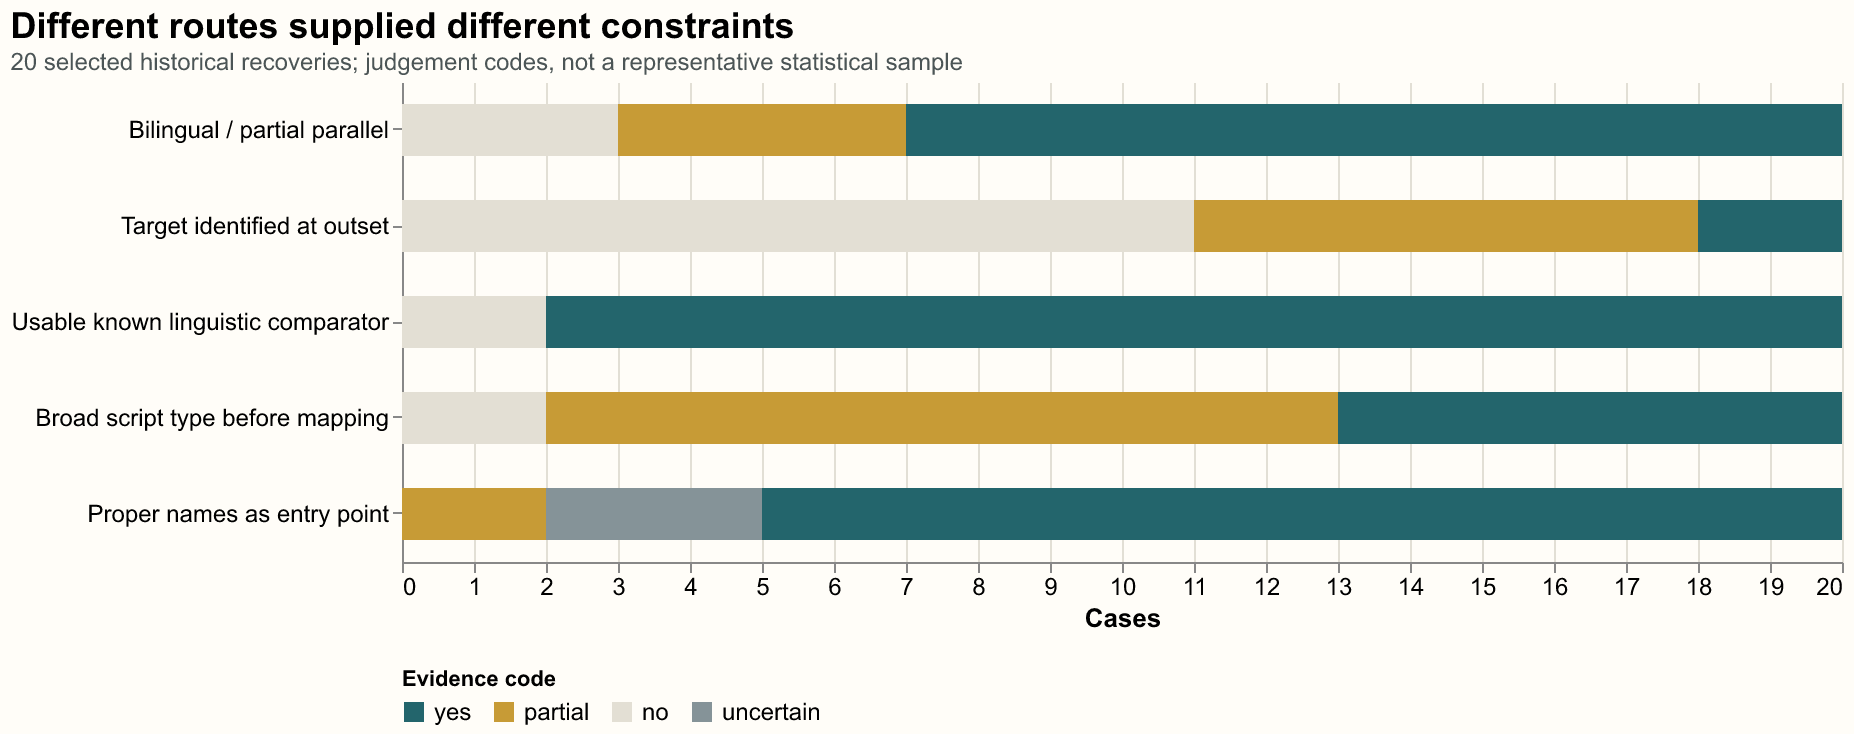
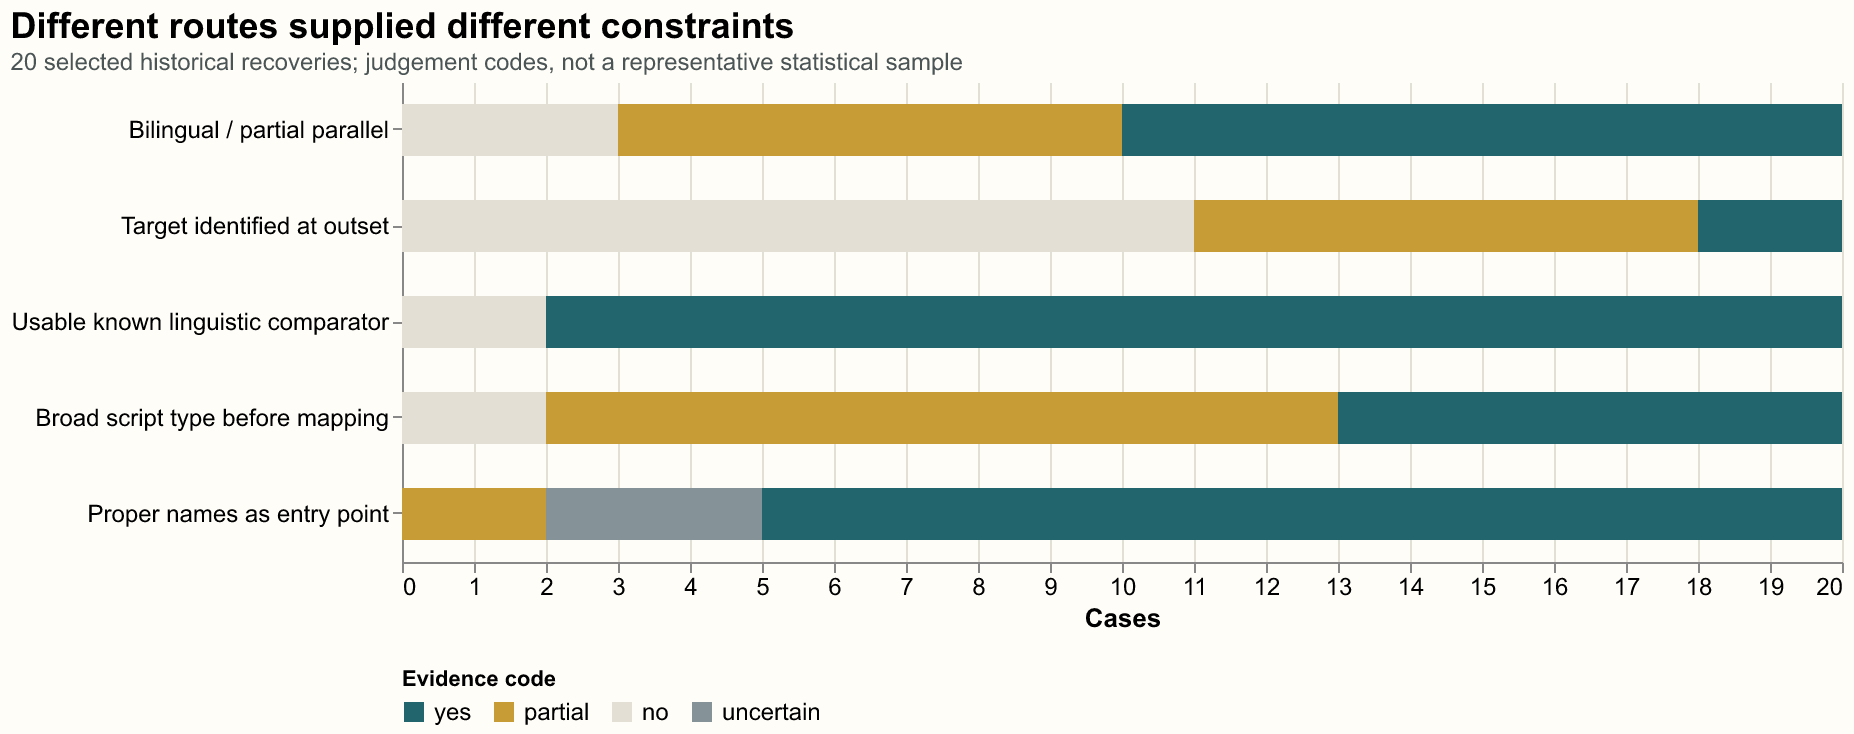
Code short coin and name keys as partial bilingual evidence

Changed region(s): [[0.4612, 0.1199, 0.6149, 0.2098]]

diff --git a/snacks/2026-11-19-decipherment-methods-and-agents/METHOD.md b/snacks/2026-11-19-decipherment-methods-and-agents/METHOD.md
@@ -15,7 +15,7 @@ This is a structured literature survey, not an experiment that deciphers a scrip
 1. **Case and outcome selection.** Treat established productive reading/interpretation as a historical recovery, while acknowledging residual gaps. Hittite is principally a language identification in an already readable script. Demotic shares Egyptian linguistic evidence. Meroitic and Etruscan belong among language gaps, not wholly unread scripts. Linear Elamite and Isthmian proposals remain contested in this survey. Voynich is a contested artefact in the sense that its text's nature is disputed; Vinča is probably not writing and is a comparator, excluded from the priority rank. Add Eteocypriot because a deciphered syllabary can encode another poorly understood language.
 2. **Milestone selection.** A year is a selected, labelled event, not the moment a whole script became completely understood. 1822 means the Egyptian announcement; 1841 means the partial Old South Arabian advance; 1878 means Haupt's confirmation of Sumerian as a language; 1909 starts a long Tangut recovery. The year_label and notes preserve the longer process. Different reasonable milestones would alter the timeline but not precondition counts.
 3. **Temporal boundary for preconditions.** Historical codes concern the recovery process before/at decisive mapping, not all the evidence known today. Open-case codes concern evidence currently available. `language_known` asks whether the target was independently identifiable with readable linguistic material at the outset; `related_language_known` asks whether a usable known linguistic comparator was brought into the successful test, even when choosing that comparator was itself a discovery. Thus Linear B is `no` for the first and `yes` for the second. The latter is deliberately broader than “a proved relative known before any work”; it includes Greek itself once hypothesised. Do not interpret it as a prospective prior or causal necessity.
-4. **Four-state coding.** `yes`: explicit, substantial usable evidence in the cited account. `partial`: short name pairs, contextual/memorial parallels, restricted metalinguistic keys, plausible candidate identity, or a script-type inference developed early in the work. `no`: absent in the relevant account or not established in that sense, not a claim of metaphysical impossibility. `uncertain`: insufficient support to choose. Partial is never silently counted as yes. A full bilingual is an extended translated parallel, not merely adjacent inscriptions; Old Persian's initially unread trilingual versions are partial rather than an already translated bilingual. Landa's explanations are partial. Relatedness with a fragmentary relative is partial in open cases, whereas no demonstrated useful relative (Sumerian/Elamite cuneiform) is no. A guessed proper name is not the same as an independent known name; uncertain identifications are partial.
+4. **Four-state coding.** `yes`: explicit, substantial usable evidence in the cited account. `partial`: short name pairs, contextual/memorial parallels, restricted metalinguistic keys, plausible candidate identity, or a script-type inference developed early in the work. `no`: absent in the relevant account or not established in that sense, not a claim of metaphysical impossibility. `uncertain`: insufficient support to choose. Partial is never silently counted as yes. A full bilingual is a substantial translated parallel or bilingual lexical resource, not merely adjacent inscriptions. Brahmi/Kharosthi coin names and titles and the early Carian Egyptian name pairs are partial keys, not full bilingual texts; Old Persian's initially unread trilingual versions are partial rather than an already translated bilingual. Landa's explanations are partial. Relatedness with a fragmentary relative is partial in open cases, whereas no demonstrated useful relative (Sumerian/Elamite cuneiform) is no. A guessed proper name is not the same as an independent known name; uncertain identifications are partial.
 5. **Method reconstruction.** Ordered method steps are paraphrases of the inspected accounts. They describe an iterative research process, not a literal complete notebook or one person's sole work. Citation bundles and source locators accompany each cell. Missing numbers, inaccessible full text and unsourced maxima are explicitly unknown; a source attached to an unknown cell records the scope checked, not evidence that the quantity is unknowable. `decipherment-cell-evidence.csv` identifies agent judgements separately from factual transcriptions/paraphrases. It is not a specialist annotation set.
 6. **Corpus normalisation.** Preserve each source's unit, date, inclusion and sign convention. Do not combine inscriptions, objects, fragments, lines, sign tokens, sign types, syllabograms and words. Do not add older and newer estimates. The 1,399 Proto-Elamite texts are a filtered 2019 model selection, not the complete CDLI catalogue. The 724-sign maximum includes numerals. The Indus 417 types belong to M77; 377 actually occur in EBUDS. The Linear A ring's about 119 positions include 35 traces or inferred positions; they are not 119 fully legible signs. Rongorongo's 27 objects are the 2024 paper's inclusion, not an asserted universal consensus. Contemporary corpus counts and many longest-text/token figures remain unverified, clearly marked in the table.
 7. **Agent priority scoring.** This ranks opportunities for *checkable narrower gains*, not probabilities of full decipherment. Each of six criteria scores 0–3. One point of disagreement on any criterion is plausible. Scores are authored judgements based on the row's evidence, not measured model performance. No agent loop was run on ancient texts for this snack.

diff --git a/snacks/2026-11-19-decipherment-methods-and-agents/README.md b/snacks/2026-11-19-decipherment-methods-and-agents/README.md
@@ -15,7 +15,7 @@ uv sync --locked
 uv run check.py 2026-11-19-decipherment-methods-and-agents
 ```
 
-The default check needs no API key or internet source download. It rebuilds the seven expected tables from the saved coding. In particular, it reproduces **13 full bilinguals, 4 partial parallels and 3 without either; 18 usable known linguistic comparators and 2 without; 15 clear proper-name entry points, 2 partial and 3 uncertain**, across the 20 selected historical cases. These are counts of agent judgements, not a statistical test of causal necessity. See [METHOD.md](METHOD.md) before interpreting them.
+The default check needs no API key or internet source download. It rebuilds the seven expected tables from the saved coding. In particular, it reproduces **10 full bilinguals, 7 partial parallels and 3 without either; 18 usable known linguistic comparators and 2 without; 15 clear proper-name entry points, 2 partial and 3 uncertain**, across the 20 selected historical cases. These are counts of agent judgements, not a statistical test of causal necessity. See [METHOD.md](METHOD.md) before interpreting them.
 
 The inputs comprise a 42-case CSV, cell-level evidence/uncertainty records, source metadata/access scopes and 26 computational-work records. Each corpus count retains its source date and unit; unknown is never zero. The public package contains no ancient corpus texts or third-party sign images. [DATA-SOURCES.md](DATA-SOURCES.md) records the sharing decisions and the providers' different access conditions.
 
